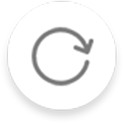
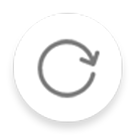
坑比定时器

diff --git a/MyWorShip/HomeViewController.m b/MyWorShip/HomeViewController.m
@@ -205,15 +205,14 @@ static double angle=0;
     [self.view addSubview:IMGCentr];
     IMGCentr.sd_layout.leftSpaceToView(self.view, (self.view.frame.size.width-25)/2).topSpaceToView(self.view, (self.view.frame.size.height-38)/2).widthIs(25).heightIs(38);
     autoSize
-    UIButton *imgview = [[UIButton alloc]init];
-    imgview.frame = CGRectMake(15,self.view.frame.size.height-99, 41, 41);
-    [imgview addTarget:self action:@selector(onUpdataClick) forControlEvents:UIControlEventTouchUpInside];
-    [imgview setBackgroundImage:[UIImage imageNamed:@"icon_shuaxin"] forState:UIControlStateNormal];
+    _imgview = [[UIButton alloc]init];
+    _imgview.frame = CGRectMake(15,self.view.frame.size.height-99, 41, 41);
+    [_imgview addTarget:self action:@selector(onUpdataClick) forControlEvents:UIControlEventTouchUpInside];
+    [_imgview setBackgroundImage:[UIImage imageNamed:@"icon_shuaxin"] forState:UIControlStateNormal];
     
-    [self.view addSubview:imgview];
+    [self.view addSubview:_imgview];
     //imgview.sd_layout.leftEqualToView(positioningBtn).bottomSpaceToView(positioningBtn, 13.5).widthIs(41).heightIs(41);
     
-    _imgview = imgview;
     
 
     
@@ -222,20 +221,18 @@ static double angle=0;
 #pragma mark 点击刷新执行该方法
 -(void)onUpdataClick{
     NSLog(@"我点了");
-    
+    _timer=[NSTimer scheduledTimerWithTimeInterval:0.01 target:self selector:@selector(onTimer) userInfo:nil repeats:YES];
     [self QueryEquipmentNear:_mapView];
-    _timer=[NSTimer scheduledTimerWithTimeInterval:0.0001 target:self selector:@selector(onTimer) userInfo:nil repeats:YES];
+    
 }
 -(void)onTimer {
-    //    NSLog(@"111")
     static int angle = 0;
-    angle +=30;
+    angle +=5;
     _imgview.transform = CGAffineTransformMakeRotation(angle*M_PI/180);
-    
-    //362 2
-    //%360
+
     if (angle >= 360) {
-        angle = 0/*angle-360*/;
+        angle = 0;
+        NSLog(@"几圈了");
     }
     
     NSLog(@"%d",angle);
